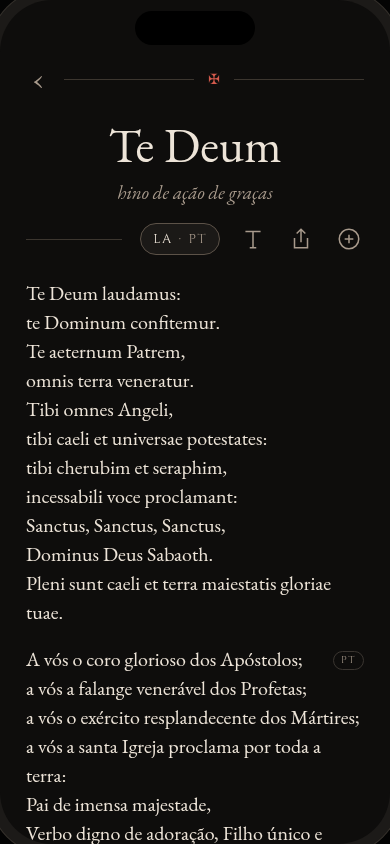
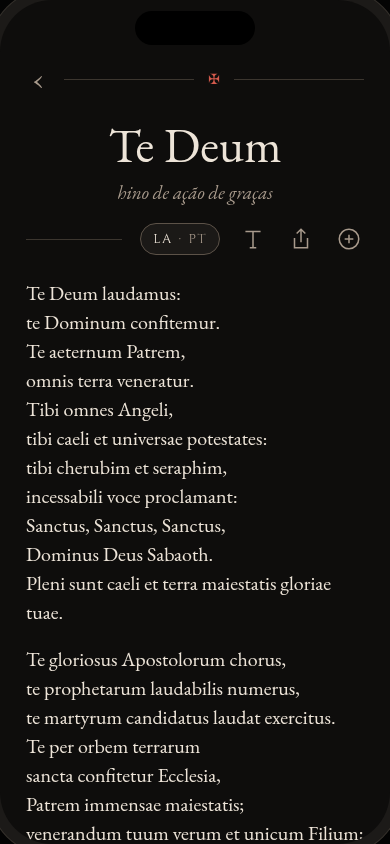
Prototype: no language tag on a switched paragraph

Changed region(s): [[0.0615, 0.7701, 0.9231, 1.0], [0.8615, 0.7701, 0.9231, 0.8009]]

diff --git a/prototypes/language-ux/index.html b/prototypes/language-ux/index.html
@@ -105,7 +105,6 @@ button { font: inherit; color: inherit; background: none; border: 0; padding: 0;
 .pill.partial::after { content: " · parcial"; font-style: italic; font-size: 14px; opacity: .7; }
 .tappable { cursor: pointer; border-radius: 8px; padding: 2px 8px; margin-left: -8px; margin-right: -8px; transition: background .25s; }
 .tappable:active { background: var(--surface-2); }
-.lang-tag { float: right; font-family: var(--heading); font-size: 10px; letter-spacing: 1.5px; color: var(--muted); border: 1px solid var(--hair); border-radius: 999px; padding: 1px 7px; margin: 6px 0 0 10px; }
 .layouts { display: grid; grid-template-columns: repeat(3, 1fr); gap: 8px; }
 .lay { background: var(--surface); border-radius: 14px; padding: 10px 4px 8px; text-align: center; line-height: 1.15; display: flex; flex-direction: column; align-items: center; gap: 6px; font-size: 15px; }
 .lay svg { width: 54px; height: 40px; }
@@ -261,11 +260,9 @@ function blockHtml(b, r, i) {
     return `<div class="blk cols"><div class="${cls}">${who}<span class="t">${br(main)}</span></div><div class="rule"></div><div class="side2 ${cls}">${who}<span class="t">${br(comp)}</span></div></div>`
   }
   if (r.layout === 'tap' && comp) {
-    // Today's tap to switch: each paragraph flips on its own. The small tag says
-    // which language a flipped paragraph is showing.
+    // Today's tap to switch: each paragraph flips on its own.
     const flipped = S.flipped.has(i)
-    const tag = flipped ? `<span class="lang-tag">${langCode[r.follow]}</span>` : ''
-    return `<div class="blk tappable ${cls} ${flipped ? 'flipped' : ''}" data-tap="${i}">${who}<div>${tag}<span class="t">${br(flipped ? comp : main)}</span></div></div>`
+    return `<div class="blk tappable ${cls} ${flipped ? 'flipped' : ''}" data-tap="${i}">${who}<div><span class="t">${br(flipped ? comp : main)}</span></div></div>`
   }
   const c = r.layout === 'interleaved' && comp ? `<div class="companion">${br(comp)}</div>` : ''
   return `<div class="blk ${cls}">${who}<div><span class="t">${br(main)}</span>${c}</div></div>`
@@ -458,8 +455,8 @@ const scenes = [
     s: () => ({ screen: 'reader', practice: 'mass', sheet: 'lang' }) },
   { t: 'Rotate: columns', n: 'With the layout on <b>Automática</b>, landscape (and tablets, and the website) turn the same text into two columns. No setting changes; turn the phone upright and it goes back to interleaved.',
     s: () => ({ screen: 'reader', practice: 'mass', land: true }) },
-  { t: 'Tap to switch', n: 'Today\'s interaction stays as the third layout, <b>Toque para alternar</b>: only the Latin shows, and tapping a paragraph switches it to Portuguese (tap again to switch back). A small <b>PT</b> tag marks a switched paragraph, so you can tell at a glance which language you are reading.',
-    s: () => ({ screen: 'reader', practice: 'tedeum', overrides: { tedeum: { layout: 'tap' } }, flipped: new Set([1]) }) },
+  { t: 'Tap to switch', n: 'Today\'s interaction stays as the third layout, <b>Toque para alternar</b>: only the Latin shows, and tapping a paragraph switches it to Portuguese (tap again to switch back).',
+    s: () => ({ screen: 'reader', practice: 'tedeum', overrides: { tedeum: { layout: 'tap' } } }) },
   { t: 'An exception, remembered', n: 'The Angelus opens in Portuguese. Open the chip and pick <b>Latim</b>: Portuguese drops into the companion slot by itself, and <b>Vale para</b> at the foot of the sheet flips to <b>Só esta oração</b>: only the Angelus opens in Latin from now on. Tap <b>Todas as orações</b> and the same choice becomes your default for every prayer. It stays in the sheet, so you can come back to it any time.',
     s: () => ({ screen: 'reader', practice: 'angelus', sheet: 'lang' }) },
   { t: 'One language: no chip', n: 'The Brazilian Liturgy of the Hours exists only in Portuguese, so its toolbar shows no language control. The <b>T</b> icon now holds typography only.',
